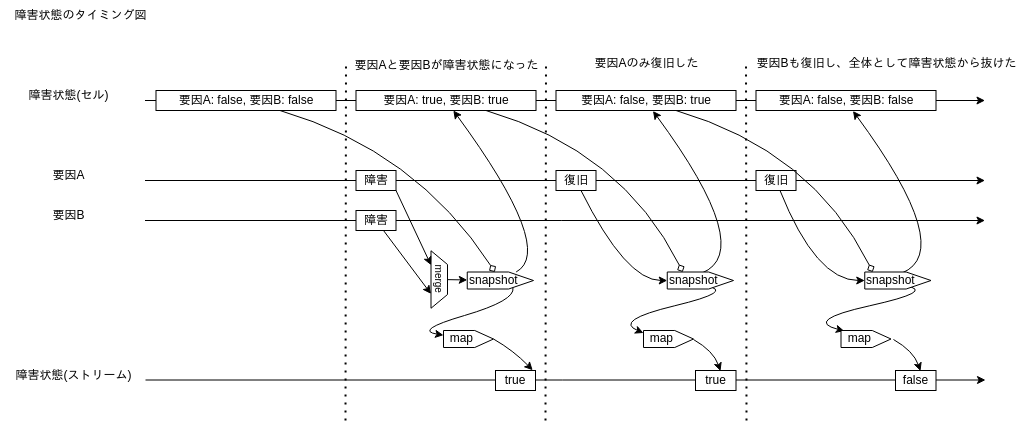
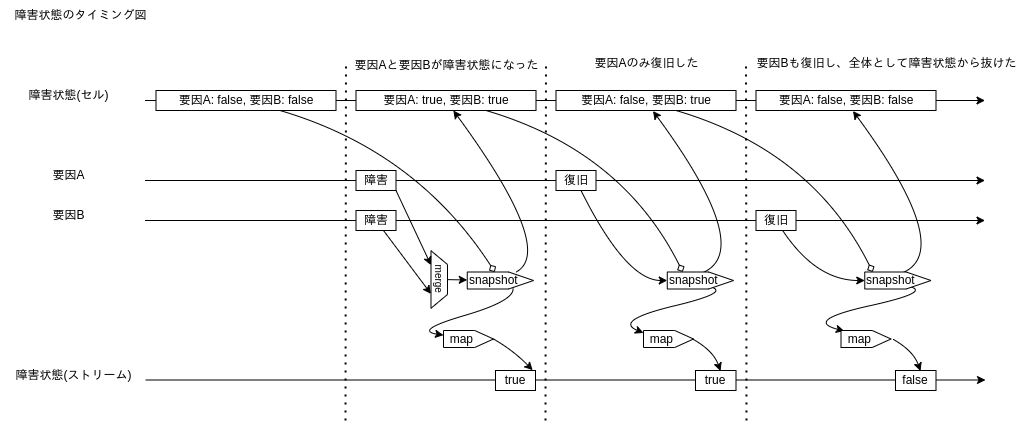
status.mdについて、実際の実装の説明を加えた

diff --git a/docs/status.md b/docs/status.md
@@ -87,3 +87,68 @@
   - 満水センサがOFFになれば復旧する。停止状態のままだけだけど、他のイベントによって沸騰状態に移行する。
 - 水位が0のとき
   - 水位が1以上に慣れば復旧する。停止状態のままだけど、他のイベントによって沸騰状態に移行する。
+
+## 実装
+
+![status以下の呼び出し関係](../images/status/status_call.png)
+
+statusは図のような関数の呼び出しを行っている。
+
+### 各関数の説明
+
+- lidChange
+  - フタが開いたとき、閉じたときのみ発火するストリームを返す。
+- boilButtonClickedAndLidClosed
+	- 沸騰ボタンが押されたときかつ、フタが閉じているときのみ発火するストリームを返す。
+- turnOnKeepWarm
+	- 100度に達してから3分後に発火するストリームを返す。
+	- 今はデバッグ用に10秒後に発火するようにしている。
+- errorStatus
+  - 異常停止状態になる際と、異常停止状態からの復旧の際に発火するストリームを返す。
+- errorTemperatureTooHighUpdate
+	- オーバーヒートした祭と、オーバーヒートからの復旧の際に発火するストリームを返す。
+- errorTemperatureNotIncreasedUpdate
+	- 温度上がらずエラーが発生した際と、温度上がらずエラーからの復旧の際に発火するストリームを返す。
+- errorWaterOverflowUpdate
+	- 満水センサがONのときと、OFFになったときに発火するストリームを返す。
+- errorWaterLevelTooLowUpdate
+	- 水位が0のときと、1以上になったときに発火するストリームを返す。
+
+### status
+
+TODO ネットワーク図と説明
+
+### errorStatus
+
+異常停止状態に遷移する祭と、異常停止状態からの復旧の際に発火するストリームを返す。内部で$2^4 = 16$パターンの状態を持っていて、それぞれの要因ごとに障害と復旧を管理している。戻り値のストリームは、全ての要因が復旧した際にfalseを、異常停止状態になった際にtrueを発火する。
+
+![errorStatusのネットワーク図](../images/status/errorStatus.png)
+
+![errorStatusのタイミング図](../images/status/errorStatus_timing.png)
+
+各要因の障害・復旧は同じ論理的時刻で行われることがある。要因Aと要因Bで考えると、図のように要因Aと要因Bが同じ論理的時刻で行われることがある。なので、要因Aが障害になったという情報と、要因Bが障害になったという情報を両方残すようにmergeしている。
+
+### errorTemperatureTooHighUpdate
+
+![errorTemperatureTooHighUpdateのネットワーク図](../images/status/errorTemperatureTooHighUpdate.png)
+
+
+
+### errorTemperatureNotIncreasedUpdate
+
+![errorTemperatureNotIncreasedUpdateのネットワーク図](../images/status/errorTemperatureNotIncreasedUpdate.png)
+
+TODO 説明
+
+### errorWaterOverflowUpdate
+
+![errorWaterOverflowUpdateのネットワーク図](../images/status/waterOverflowUpdate.png)
+
+TODO 説明
+
+### errorWaterLevelTooLowUpdate
+
+![errorWaterLevelTooLowUpdateのネットワーク図](../images/status/waterLevelTooLowUpdate.png)
+
+TODO 説明
+
